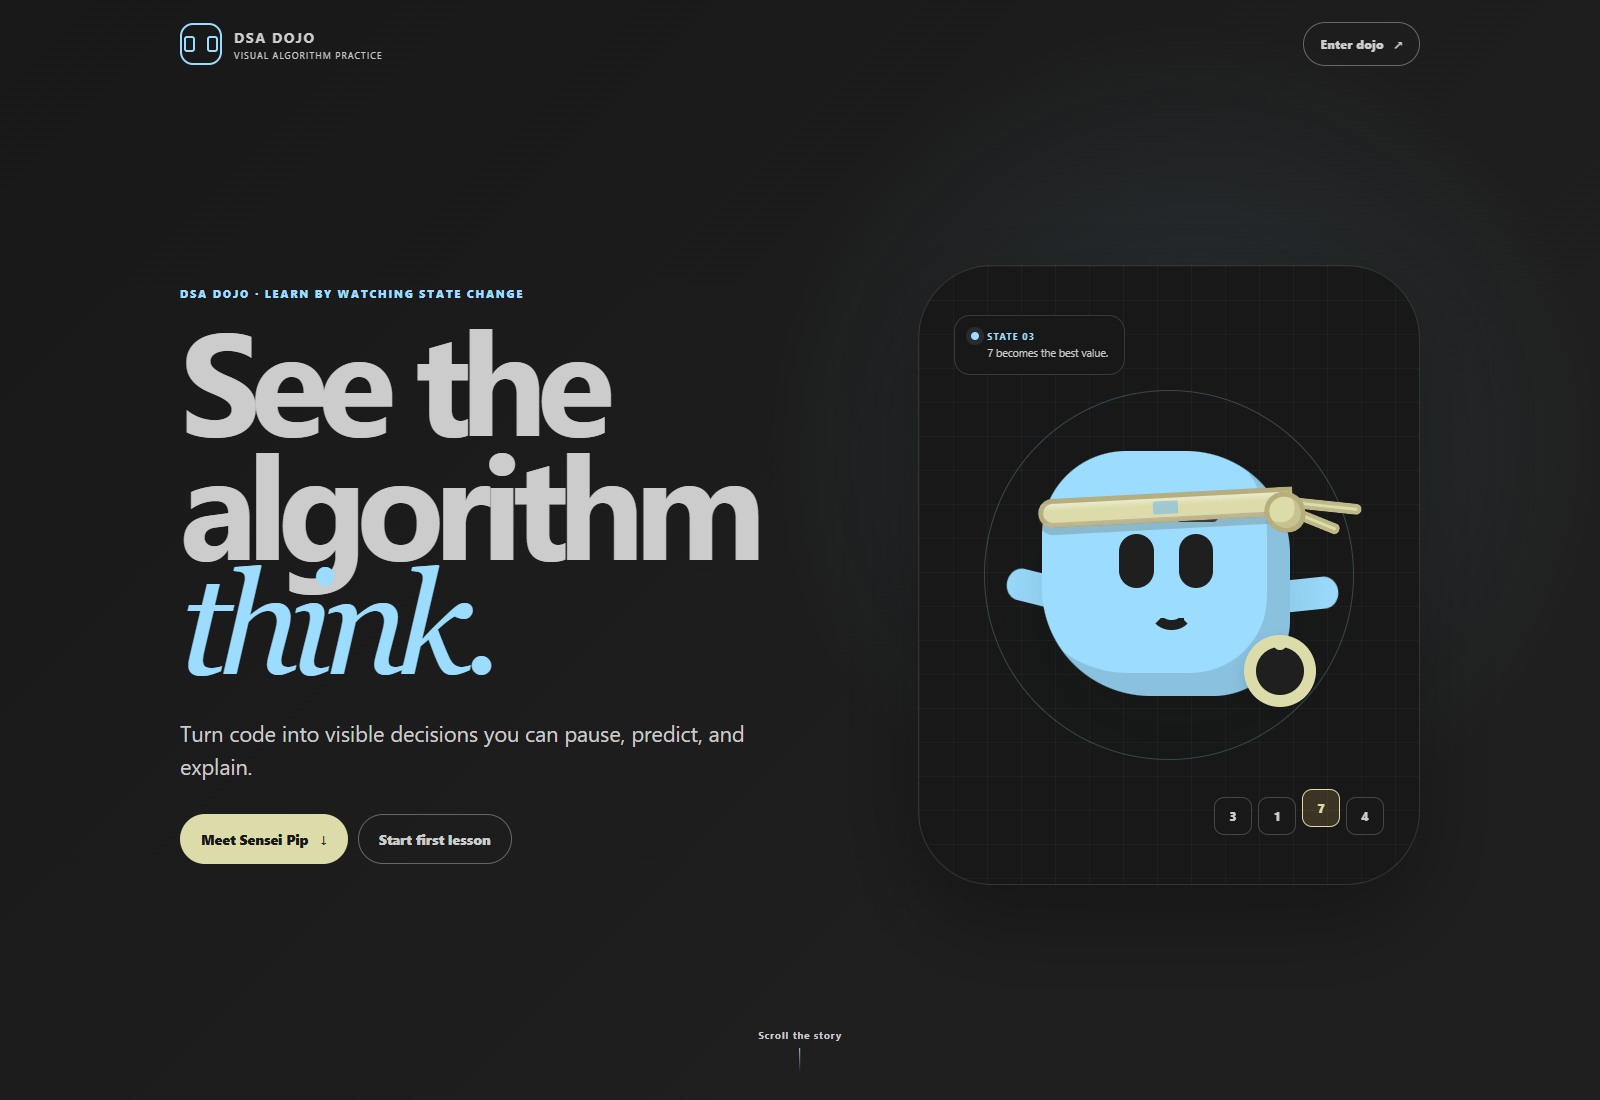
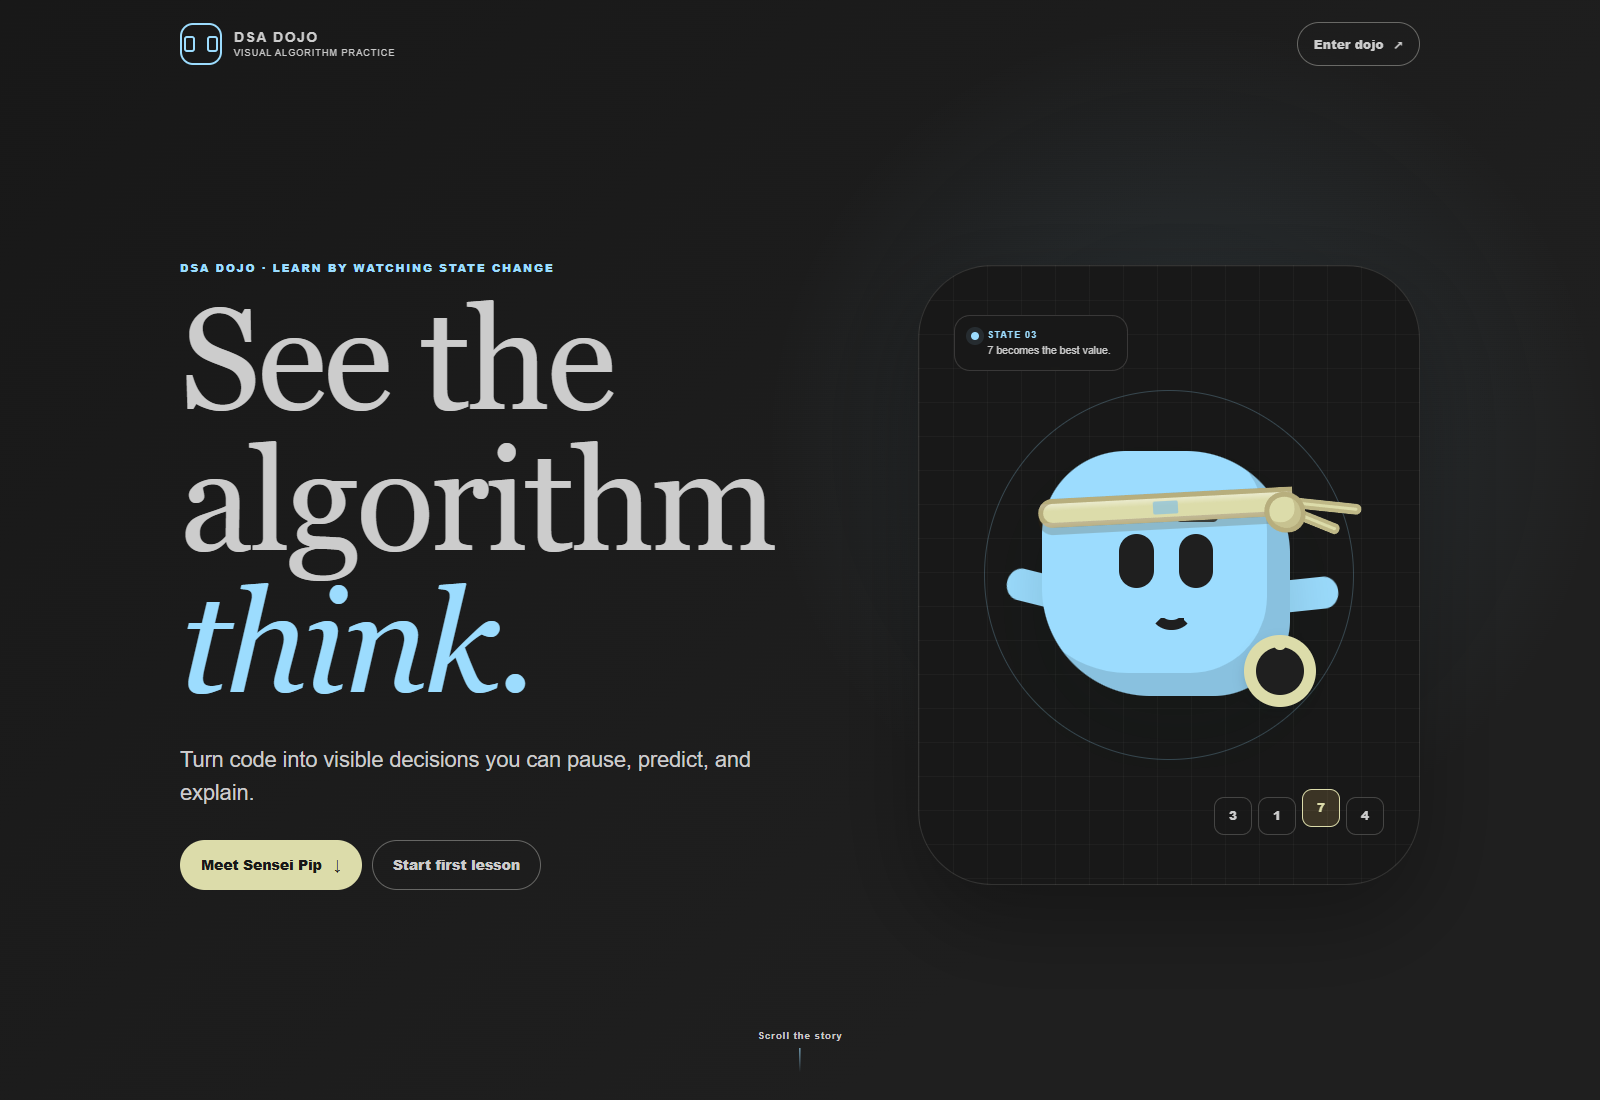
Match portfolio typography and refresh DSA media (#29)

diff --git a/studio/styles.css b/studio/styles.css
@@ -1,4 +1,8 @@
 :root {
+  --font-ui: Arial, Helvetica, ui-sans-serif, system-ui, -apple-system, BlinkMacSystemFont, "Segoe UI", sans-serif;
+  --font-display: Georgia, "Times New Roman", serif;
+  --font-code: Consolas, "Courier New", monospace;
+
   color-scheme: dark;
   --ink: #CCCCCC;
   --ink-soft: #C8C8C8;
@@ -12,7 +16,7 @@
   --sun: #DCDCAA;
   --line: #454545;
   --shadow: 0 18px 50px rgba(0, 0, 0, 0.08);
-  font-family: Inter, ui-sans-serif, system-ui, -apple-system, BlinkMacSystemFont, "Segoe UI", sans-serif;
+  font-family: var(--font-ui);
   background: var(--paper);
   color: var(--ink);
 }
@@ -47,7 +51,7 @@ main { overflow: hidden; }
 h1, h2, h3, p { margin-top: 0; }
 h1, h2 { letter-spacing: -0.055em; }
 h1 { max-width: 760px; margin-bottom: 28px; font-size: clamp(3.8rem, 9vw, 8rem); line-height: 0.91; font-weight: 700; }
-.hero h1 em { display: block; color: var(--accent); font-family: Georgia, "Times New Roman", serif; font-weight: 500; }
+.hero h1 em { display: block; color: var(--accent); font-family: var(--font-display); font-weight: 500; }
 h2 { margin-bottom: 16px; font-size: clamp(2rem, 4vw, 4rem); line-height: 0.98; }
 h3 { margin-bottom: 0; font-size: 1.05rem; }
 .hero-lede { max-width: 590px; color: var(--ink-soft); font-size: clamp(1.05rem, 1.8vw, 1.35rem); line-height: 1.55; }
@@ -202,7 +206,7 @@ h3 { margin-bottom: 0; font-size: 1.05rem; }
 .comparison-visual .lookup-empty { color: var(--ink-soft); }
 .comparison-visual .branching-view, .comparison-visual .graph-view { min-height: 210px; }
 .comparison-narration { min-height: 68px; margin: 16px 0 10px; color: var(--ink-soft); font-size: 0.8rem; line-height: 1.5; }
-.comparison-code { margin-top: auto; padding: 12px 14px; overflow: hidden; border-radius: 13px; background: #181818; color: #CCCCCC; font-family: ui-monospace, SFMono-Regular, Consolas, monospace; font-size: 0.7rem; text-overflow: ellipsis; white-space: nowrap; }
+.comparison-code { margin-top: auto; padding: 12px 14px; overflow: hidden; border-radius: 13px; background: #181818; color: #CCCCCC; font-family: var(--font-code); font-size: 0.7rem; text-overflow: ellipsis; white-space: nowrap; }
 .comparison-code strong { margin-right: 9px; color: var(--sun); font-weight: 700; }
 .comparison-side-controls { display: flex; gap: 8px; justify-content: space-between; margin-top: 12px; }
 .comparison-side-controls .quiet-button { font-size: 0.68rem; }
@@ -432,7 +436,7 @@ h3 { margin-bottom: 0; font-size: 1.05rem; }
 .pip-emotion-label[data-emotion="caution"] { border-color: rgba(140,48,36,0.24); background: #30201F; color: #F85149; }
 .pip-emotion-label[data-emotion="cool"] { border-color: #181818; background: #181818; color: #DCDCAA; }
 .icon-button--light { border-color: rgba(16,37,31,0.18); background: #252526; }
-.pip-sensei-line { margin: 22px 0 0; color: #9CDCFE; font-family: Georgia, "Times New Roman", serif; font-size: 1.03rem; font-style: italic; line-height: 1.45; }
+.pip-sensei-line { margin: 22px 0 0; color: #9CDCFE; font-family: var(--font-display); font-size: 1.03rem; font-style: italic; line-height: 1.45; }
 .pip-message { margin-top: 12px; color: var(--ink); font-size: 1.05rem; line-height: 1.5; }
 .pip-prompt { margin-top: 18px; padding: 15px; border-left: 3px solid var(--accent); color: #9CDCFE; font-size: 0.84rem; font-weight: 700; line-height: 1.45; }
 .prediction-checkpoint { margin-top: 20px; padding-top: 20px; border-top: 1px solid rgba(16,37,31,0.14); }
@@ -559,3 +563,8 @@ h3 { margin-bottom: 0; font-size: 1.05rem; }
 
 .challenge-toggle[aria-pressed='true'] strong { color: #ffffff; }
 .primary-button:hover { background: #0069B9; }
+
+/* Shared portfolio typography: editorial headings, quiet interface text. */
+h1, h2 { font-family: var(--font-display); font-weight: 500; letter-spacing: 0; }
+.home-hero h1 { font-weight: 500; letter-spacing: -0.025em; line-height: 0.98; }
+pre, code, kbd, samp { font-family: var(--font-code); }

diff --git a/studio/home.css b/studio/home.css
@@ -1,4 +1,8 @@
 :root {
+  --font-ui: Arial, Helvetica, ui-sans-serif, system-ui, -apple-system, BlinkMacSystemFont, "Segoe UI", sans-serif;
+  --font-display: Georgia, "Times New Roman", serif;
+  --font-code: Consolas, "Courier New", monospace;
+
   color-scheme: dark;
   --ink: #CCCCCC;
   --ink-deep: #181818;
@@ -15,7 +19,7 @@
   --coral: #CE9178;
   --line: #454545;
   --content: 1240px;
-  font-family: Inter, ui-sans-serif, system-ui, -apple-system, BlinkMacSystemFont, "Segoe UI", sans-serif;
+  font-family: var(--font-ui);
   background: var(--paper);
   color: var(--ink);
 }
@@ -209,7 +213,7 @@ h3 {
 .home-hero h1 em {
   display: block;
   color: var(--accent-bright);
-  font-family: Georgia, "Times New Roman", serif;
+  font-family: var(--font-display);
   font-weight: 500;
 }
 
@@ -806,7 +810,7 @@ h3 {
   display: grid;
   gap: 4px;
   overflow-x: auto;
-  font-family: ui-monospace, SFMono-Regular, Menlo, Consolas, monospace;
+  font-family: var(--font-code);
   font-size: clamp(0.78rem, 1.7vw, 0.98rem);
   line-height: 1.8;
   white-space: nowrap;
@@ -1691,3 +1695,8 @@ button[data-scan-replay] { color: #9CDCFE; }
 .home-button--primary { color: #ffffff; }
 
 .home-button--outline { color: #CCCCCC; }
+
+/* Shared portfolio typography: editorial headings, quiet interface text. */
+h1, h2 { font-family: var(--font-display); font-weight: 500; letter-spacing: 0; }
+.home-hero h1 { font-weight: 500; letter-spacing: -0.025em; line-height: 0.98; }
+pre, code, kbd, samp { font-family: var(--font-code); }

diff --git a/studio/index.html b/studio/index.html
@@ -10,11 +10,11 @@
     <meta property="og:url" content="https://everdein.github.io/dsa-dojo/studio/" />
     <meta property="og:title" content="DSA Dojo — Interactive Algorithm Studio" />
     <meta property="og:description" content="Step through 55 JavaScript algorithm lessons with synchronized state, source code, and explanation." />
-    <meta property="og:image" content="https://everdein.github.io/dsa-dojo/social-preview.jpg?v=20261023-blue" />
+    <meta property="og:image" content="https://everdein.github.io/dsa-dojo/social-preview.jpg?v=20261023-type" />
     <meta name="twitter:card" content="summary_large_image" />
     <meta name="twitter:title" content="DSA Dojo — Interactive Algorithm Studio" />
     <meta name="twitter:description" content="Pause, predict, and explain 55 JavaScript algorithm lessons one decision at a time." />
-    <meta name="twitter:image" content="https://everdein.github.io/dsa-dojo/social-preview.jpg?v=20261023-blue" />
+    <meta name="twitter:image" content="https://everdein.github.io/dsa-dojo/social-preview.jpg?v=20261023-type" />
     <title>DSA Dojo — Interactive Algorithm Studio</title>
     <link rel="canonical" href="https://everdein.github.io/dsa-dojo/studio/" />
     <link rel="icon" href="../favicon.svg" type="image/svg+xml" />

diff --git a/studio/home.html b/studio/home.html
@@ -10,11 +10,11 @@
     <meta property="og:url" content="https://everdein.github.io/dsa-dojo/" />
     <meta property="og:title" content="DSA Dojo — See the Algorithm Think" />
     <meta property="og:description" content="Interactive JavaScript lessons that synchronize algorithm state, source code, and explanation." />
-    <meta property="og:image" content="https://everdein.github.io/dsa-dojo/social-preview.jpg?v=20261023-blue" />
+    <meta property="og:image" content="https://everdein.github.io/dsa-dojo/social-preview.jpg?v=20261023-type" />
     <meta name="twitter:card" content="summary_large_image" />
     <meta name="twitter:title" content="DSA Dojo — See the Algorithm Think" />
     <meta name="twitter:description" content="Pause, predict, and explain data structures and algorithms one decision at a time." />
-    <meta name="twitter:image" content="https://everdein.github.io/dsa-dojo/social-preview.jpg?v=20261023-blue" />
+    <meta name="twitter:image" content="https://everdein.github.io/dsa-dojo/social-preview.jpg?v=20261023-type" />
     <title>DSA Dojo — See the Algorithm Think</title>
     <link rel="canonical" href="https://everdein.github.io/dsa-dojo/" />
     <link rel="icon" href="./favicon.svg" type="image/svg+xml" />

diff --git a/docs/visual-system.md b/docs/visual-system.md
@@ -1,0 +1,13 @@
+# Shared visual system
+
+The portfolio, Pay Period Planner and DSA Dojo share a system-font pairing:
+
+- Interface text: Arial, Helvetica and system sans-serif fallbacks.
+- Display headings: Georgia, Times New Roman and serif fallbacks.
+- Code: Consolas, Courier New and monospace fallbacks.
+
+Fonts are supplied by the device; no font service or remote font request is required.
+
+Dark Modern uses #1F1F1F for the canvas, #181818 for side panels, #CCCCCC for body text, #0078D4 for actions and focus, and #9CDCFE for readable blue accents. Yellow #DCDCAA, magenta #C586C0 and salmon #CE9178 distinguish supporting details. Error states use #F85149. Green and teal are not brand or interface accents. Light mode, where supported, keeps neutral surfaces and blue interactions.
+
+Application screenshots are real browser captures. Planner captures use an isolated synthetic workspace. Marketing thumbnails are illustrative and are refreshed when the visible design changes.

diff --git a/README.md b/README.md
@@ -6,7 +6,7 @@
 
 [Open the live DSA Dojo](https://everdein.github.io/dsa-dojo/)
 
-![DSA Dojo curriculum map showing the 55-lesson learning path](studio/social-preview.jpg)
+![DSA Dojo — See the algorithm think, with shared portfolio typography](studio/social-preview.jpg)
 
 DSA Dojo is a framework-free learning product that makes data structures and
 algorithms visible, inspectable, and explainable with JavaScript. Learners can
@@ -197,3 +197,7 @@ Pushes to `main` run CI across Node.js 22 and 24, including unit/integration
 tests, enforced coverage floors, a static build, and a separate Playwright
 browser smoke job. GitHub Pages is built and deployed by that same workflow
 only after the browser job succeeds, so a browser regression cannot publish.
+
+## Visual identity
+
+See [the shared visual system](docs/visual-system.md) for the font pairing, Dark Modern palette and screenshot policy.

diff --git a/docs/images/dark-modern/README.md b/docs/images/dark-modern/README.md
@@ -7,3 +7,6 @@ Real browser captures of the Dark Modern application on October 23, 2026:
 - comparison.png: Bubble Sort and Merge Sort comparison
 
 Use these files for project media rather than earlier light-theme screenshots.
+
+The current captures use the shared Arial/Georgia font system. mobile.png records the 390px landing view.
+
